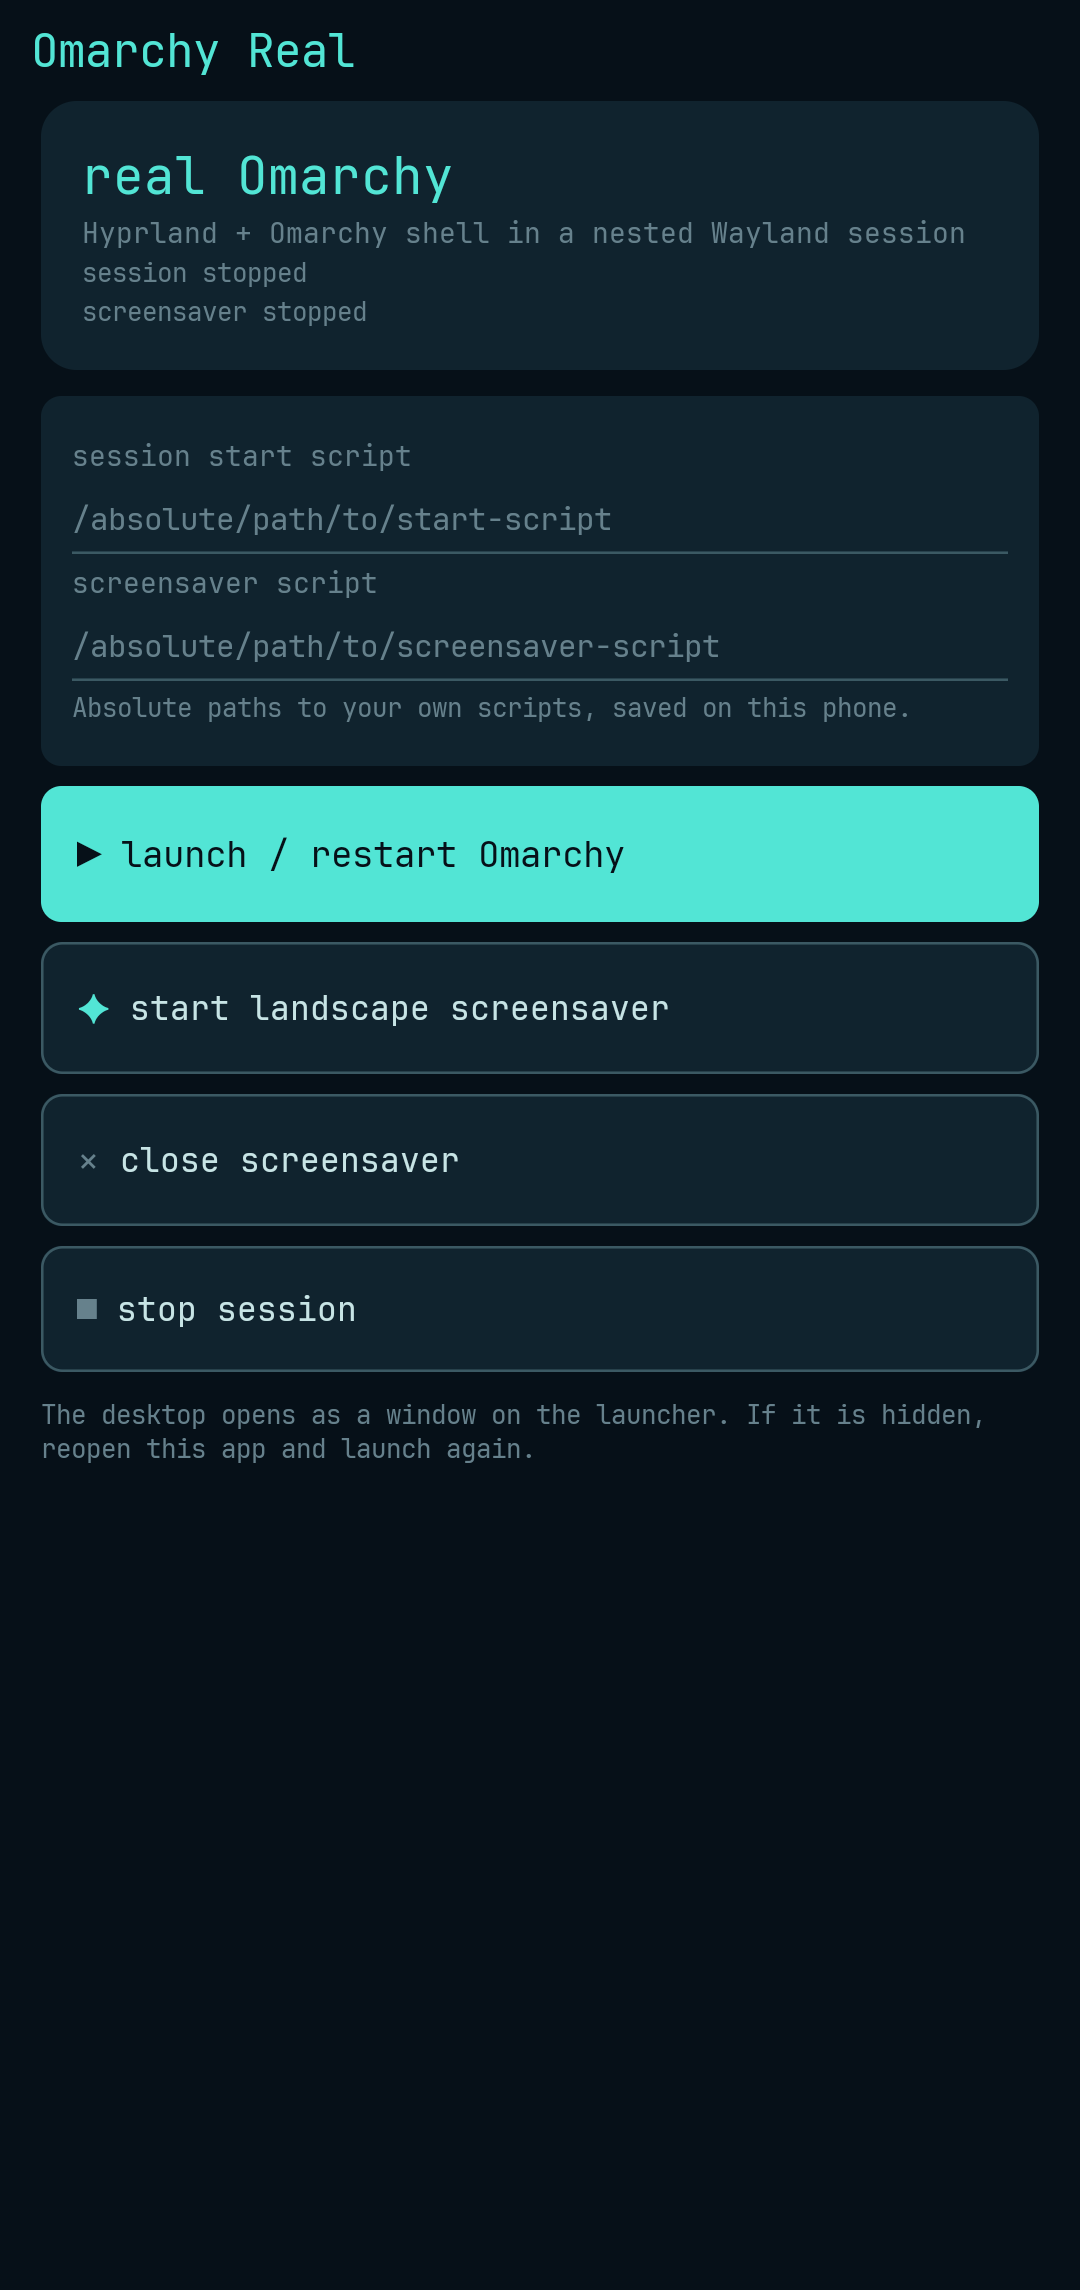
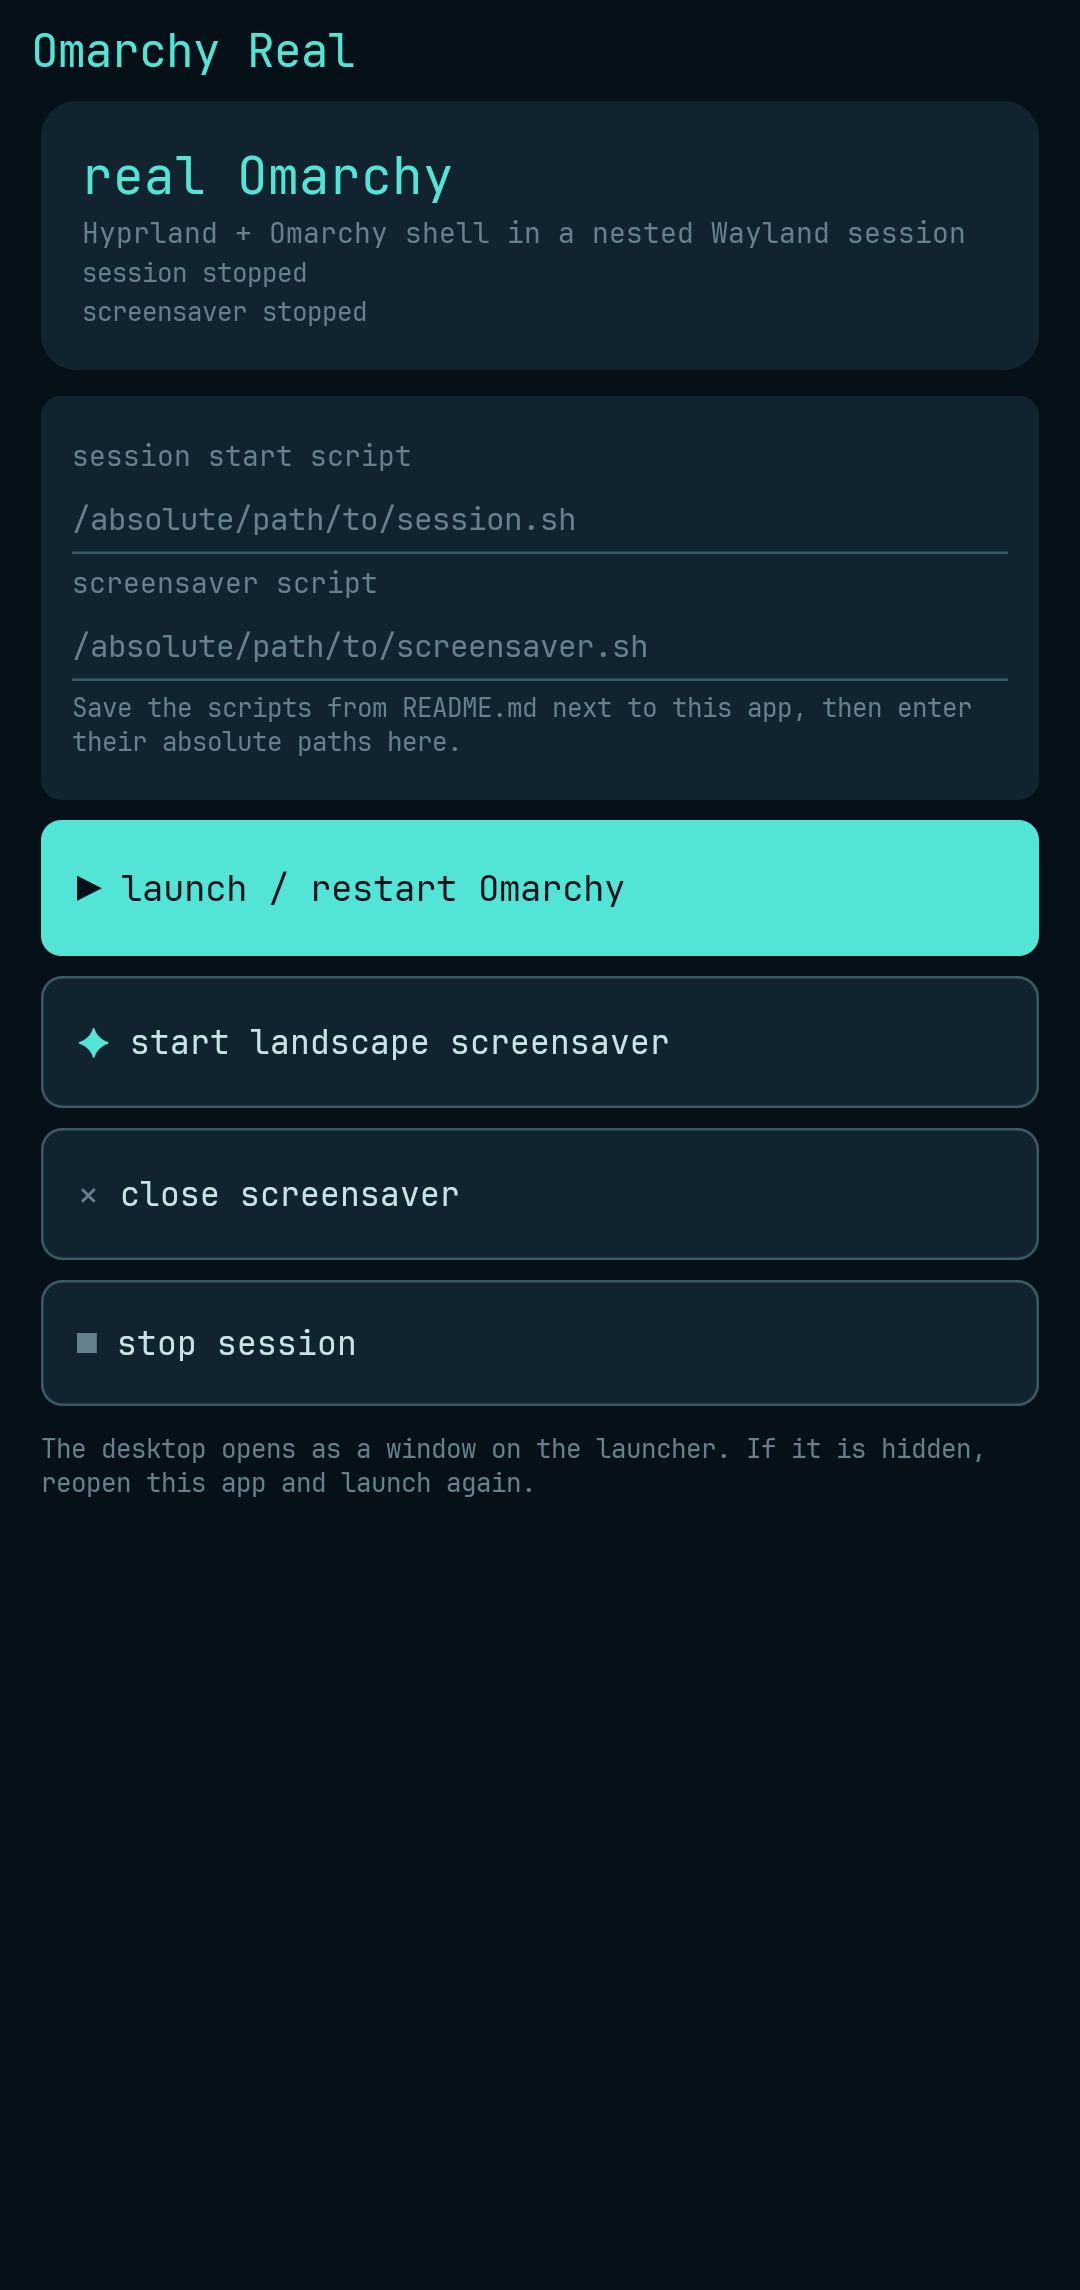
Address review: precise process handling and documented scripts

diff --git a/apps/zshadow168-hub/omarchy-real/README.md b/apps/zshadow168-hub/omarchy-real/README.md
@@ -1,0 +1,101 @@
+# Omarchy Real
+
+A launcher app for a nested Hyprland + Omarchy session. It does not ship a compositor or a shell
+build: you need a nested-capable Hyprland and Omarchy shell installed on the phone. The two scripts
+below make the app work with any such install, without personal paths in the app file.
+
+Save them as `session.sh` and `screensaver.sh` under `$HOME/.local/share/omarchy-real/`, make them
+executable, and enter their **absolute** paths (expand `$HOME` yourself) in the app's two fields.
+The app saves those paths on the phone only.
+
+## Protocol the app expects
+
+All files live in `$XDG_RUNTIME_DIR/omarchy-real/` (falling back to `/run/user/$(id -u)`).
+
+| File | Written by | Meaning |
+| --- | --- | --- |
+| `session.pid` | `session.sh` | PID of the detached session. It must be a process-group leader (start it with `setsid`), so stopping sends `SIGTERM` to `-PID` and takes only that session's children with it. |
+| `session.socket` | `session.sh` | Name of the nested Wayland socket inside `$XDG_RUNTIME_DIR`, e.g. `wayland-1`. Status is "running" only while the PID is alive **and** this socket exists. |
+| `saver.pid` | `screensaver.sh` | PID of the detached screensaver process group, stopped the same way. |
+
+The app never uses `pgrep`/`pkill` patterns or kills other users of `quickshell`, `swaybg` or
+`hyprland`. Stopping asks for confirmation first.
+
+## `session.sh`
+
+Replace `PREFIX` (or set `OMARCHY_REAL_PREFIX`) with the root of your nested install; it must
+contain `bin/Hyprland` and `etc/hypr/hyprland.lua`.
+
+```sh
+#!/bin/bash
+set -euo pipefail
+R=${XDG_RUNTIME_DIR:-/run/user/$(id -u)}
+D=$R/omarchy-real
+mkdir -p "$D"
+
+# Detach once so the session survives the terminal or agent that launched it.
+if [ "${OMARCHY_REAL_DETACHED:-}" != 1 ]; then
+  export OMARCHY_REAL_DETACHED=1
+  setsid nohup "$0" "$@" >"$D/session.log" 2>&1 </dev/null &
+  echo $! > "$D/session.pid"
+  exit 0
+fi
+
+# Replace only a session this script started before, never other processes.
+old=$(cat "$D/session.pid" 2>/dev/null || true)
+if [ -n "$old" ] && [ "$old" != "$$" ] && kill -0 "$old" 2>/dev/null; then
+  kill -TERM -- -"$old" 2>/dev/null || true
+  sleep 1
+fi
+echo $$ > "$D/session.pid"
+
+# The socket name your compositor creates inside $XDG_RUNTIME_DIR.
+SOCKET=wayland-1
+printf '%s\n' "$SOCKET" > "$D/session.socket"
+
+PREFIX=${OMARCHY_REAL_PREFIX:-$HOME/.local/share/omarchy-real}
+export OMARCHY_PATH=$PREFIX/share/omarchy
+export PATH=$PREFIX/bin:$OMARCHY_PATH/bin:$PATH
+export XDG_SESSION_TYPE=wayland
+export XDG_CURRENT_DESKTOP=Hyprland
+export XDG_SESSION_DESKTOP=Hyprland
+export QT_QPA_PLATFORM=wayland
+export QT_QUICK_BACKEND=software
+export LIBGL_ALWAYS_SOFTWARE=1
+export GALLIUM_DRIVER=llvmpipe
+export HYPRLAND_EGL_SURFACELESS=1
+export AQ_NO_KMS_REQUIREMENT=1
+
+exec "$PREFIX/bin/Hyprland" --i-am-really-stupid \
+  -c "$PREFIX/etc/hypr/hyprland.lua" "$@"
+```
+
+## `screensaver.sh`
+
+It uses the socket name recorded by `session.sh` and stops only its own process group.
+
+```sh
+#!/bin/bash
+set -euo pipefail
+R=${XDG_RUNTIME_DIR:-/run/user/$(id -u)}
+D=$R/omarchy-real
+mkdir -p "$D"
+
+if [ "${OMARCHY_REAL_SAVER_DETACHED:-}" != 1 ]; then
+  export OMARCHY_REAL_SAVER_DETACHED=1
+  setsid nohup "$0" "$@" >"$D/saver.log" 2>&1 </dev/null &
+  echo $! > "$D/saver.pid"
+  exit 0
+fi
+
+echo $$ > "$D/saver.pid"
+export XDG_RUNTIME_DIR=$R
+export WAYLAND_DISPLAY=$(cat "$D/session.socket" 2>/dev/null || printf wayland-1)
+PREFIX=${OMARCHY_REAL_PREFIX:-$HOME/.local/share/omarchy-real}
+export OMARCHY_PATH=$PREFIX/share/omarchy
+export PATH=$PREFIX/bin:$OMARCHY_PATH/bin:$PATH
+exec omarchy-launch-screensaver force
+```
+
+Packages: `util-linux` provides `setsid`. The nested compositor, its config and the Omarchy shell
+are supplied by your own install, not by this app.
